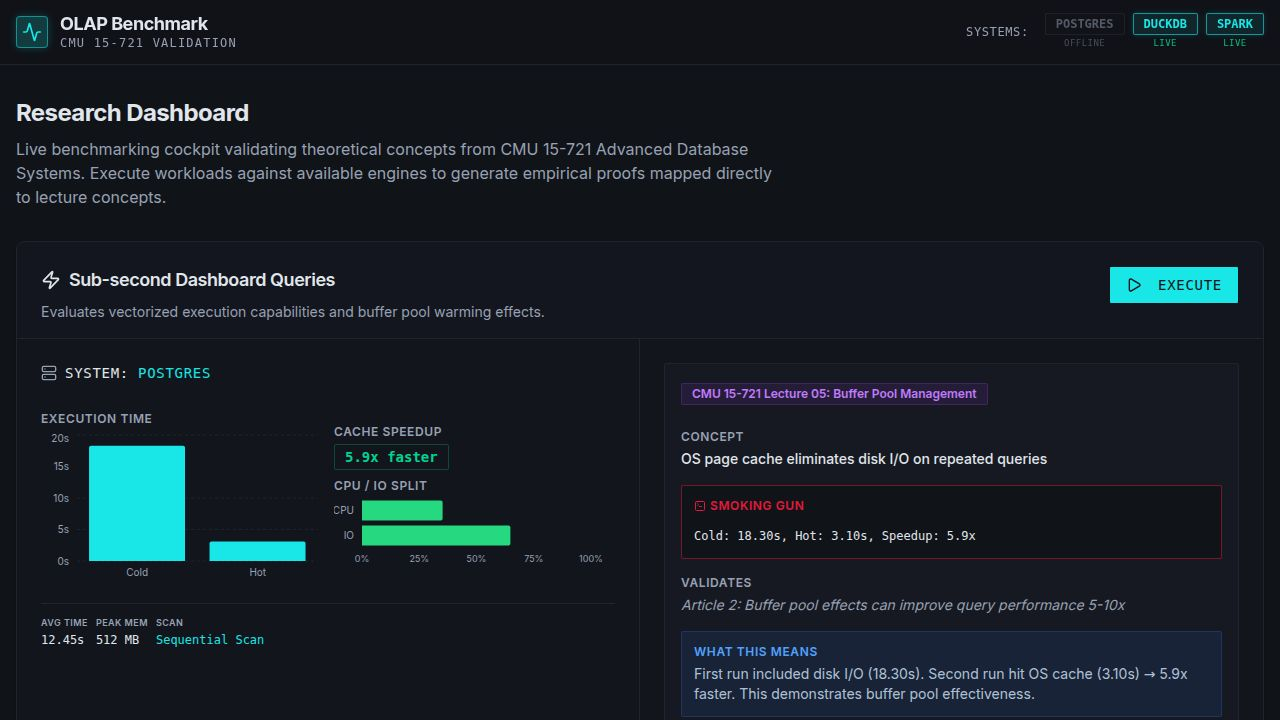
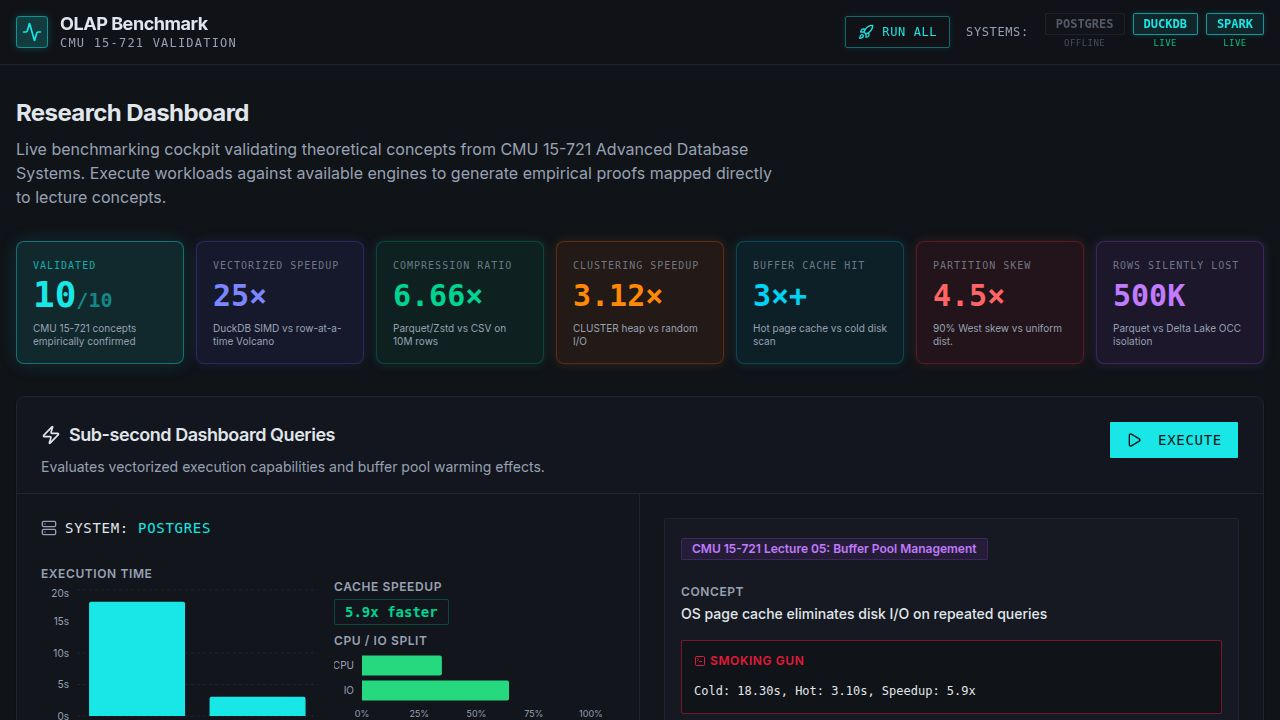
Add performance highlights and a run all button to the dashboard
Adds a "Headline Stats" grid to showcase key performance metrics and a "Run All" button to trigger all benchmarks sequentially with a progress counter.

diff --git a/artifacts/dashboard/src/pages/dashboard.tsx b/artifacts/dashboard/src/pages/dashboard.tsx
@@ -7,7 +7,7 @@ import { Button } from "@/components/ui/button";
 import { ScrollArea } from "@/components/ui/scroll-area";
 import { Table, TableBody, TableCell, TableHead, TableHeader, TableRow } from "@/components/ui/table";
 import { BarChart, Bar, XAxis, YAxis, CartesianGrid, Tooltip, ResponsiveContainer, Cell } from "recharts";
-import { Activity, Play, TerminalSquare, Database, Server, Table as TableIcon, Zap, HardDrive, CheckCircle2, ShieldAlert, Cpu, Archive, TrendingUp, Filter, Scale } from "lucide-react";
+import { Activity, Play, TerminalSquare, Database, Server, Table as TableIcon, Zap, HardDrive, CheckCircle2, ShieldAlert, Cpu, Archive, TrendingUp, Filter, Scale, Sparkles, Rocket } from "lucide-react";
 
 interface ValidationData {
   lecture: string;
@@ -336,6 +336,83 @@ const TRACEABILITY_MATRIX = [
   { benchmark: "Predicate pushdown (0, 1, 2 preds)", lecture: "Lectures 07–08", concept: "Cost-Based Optimization / Predicate Pushdown", proof: "2-predicate query 1.5x faster; HASH_JOIN selected in all scenarios" },
   { benchmark: "90% West skew vs uniform", lecture: "Lecture 09", concept: "Join Skew / Partition Imbalance", proof: "4.5x partition imbalance; heavy agg (COUNT DISTINCT) slowdown visible" },
 ];
+
+const HEADLINE_STATS = [
+  {
+    value: "25×",
+    label: "Vectorized Speedup",
+    sub: "DuckDB SIMD vs row-at-a-time Volcano",
+    color: "text-indigo-400",
+    border: "border-indigo-500/25",
+    glow: "shadow-[0_0_12px_rgba(99,102,241,0.15)]",
+    bg: "bg-indigo-500/8",
+  },
+  {
+    value: "6.66×",
+    label: "Compression Ratio",
+    sub: "Parquet/Zstd vs CSV on 10M rows",
+    color: "text-emerald-400",
+    border: "border-emerald-500/25",
+    glow: "shadow-[0_0_12px_rgba(52,211,153,0.15)]",
+    bg: "bg-emerald-500/8",
+  },
+  {
+    value: "3.12×",
+    label: "Clustering Speedup",
+    sub: "CLUSTER heap vs random I/O",
+    color: "text-orange-400",
+    border: "border-orange-500/25",
+    glow: "shadow-[0_0_12px_rgba(251,146,60,0.15)]",
+    bg: "bg-orange-500/8",
+  },
+  {
+    value: "3×+",
+    label: "Buffer Cache Hit",
+    sub: "Hot page cache vs cold disk scan",
+    color: "text-cyan-400",
+    border: "border-cyan-500/25",
+    glow: "shadow-[0_0_12px_rgba(34,211,238,0.15)]",
+    bg: "bg-cyan-500/8",
+  },
+  {
+    value: "4.5×",
+    label: "Partition Skew",
+    sub: "90% West skew vs uniform dist.",
+    color: "text-red-400",
+    border: "border-red-500/25",
+    glow: "shadow-[0_0_12px_rgba(248,113,113,0.15)]",
+    bg: "bg-red-500/8",
+  },
+  {
+    value: "500K",
+    label: "Rows Silently Lost",
+    sub: "Parquet vs Delta Lake OCC isolation",
+    color: "text-purple-400",
+    border: "border-purple-500/25",
+    glow: "shadow-[0_0_12px_rgba(192,132,252,0.15)]",
+    bg: "bg-purple-500/8",
+  },
+];
+
+function StatsGrid({ validatedCount, total }: { validatedCount: number; total: number }) {
+  return (
+    <section className="grid grid-cols-2 md:grid-cols-4 lg:grid-cols-7 gap-3">
+      {/* Validated count — prominent first card */}
+      <div className="col-span-2 md:col-span-2 lg:col-span-1 rounded-xl border border-primary/40 bg-primary/10 shadow-[0_0_20px_rgba(0,255,255,0.12)] p-4 flex flex-col justify-between">
+        <span className="text-[10px] font-mono uppercase tracking-widest text-primary/70 mb-1">Validated</span>
+        <span className="text-4xl font-bold font-mono text-primary leading-none">{validatedCount}<span className="text-xl text-primary/50">/{total}</span></span>
+        <span className="text-[10px] text-muted-foreground mt-2 leading-tight">CMU 15-721 concepts<br/>empirically confirmed</span>
+      </div>
+      {HEADLINE_STATS.map((s) => (
+        <div key={s.label} className={`rounded-xl border ${s.border} ${s.bg} ${s.glow} p-4 flex flex-col justify-between`}>
+          <span className="text-[10px] font-mono uppercase tracking-widest text-muted-foreground/70 mb-1">{s.label}</span>
+          <span className={`text-3xl font-bold font-mono leading-none ${s.color}`}>{s.value}</span>
+          <span className="text-[10px] text-muted-foreground mt-2 leading-tight">{s.sub}</span>
+        </div>
+      ))}
+    </section>
+  );
+}
 
 function ValidationPanel({ validation }: { validation: ValidationData }) {
   if (!validation) return null;
@@ -1551,11 +1628,12 @@ function UseCaseSection({
 export default function Dashboard() {
   const queryClient = useQueryClient();
   const [activeLogStream, setActiveLogStream] = useState<UseCaseType | null>(null);
+  const [runAllQueue, setRunAllQueue] = useState<UseCaseType[]>([]);
+  const [runAllProgress, setRunAllProgress] = useState(0);
 
   const { data: status } = useGetBenchmarkStatus({
     query: {
       queryKey: getGetBenchmarkStatusQueryKey(),
-      // Poll every 3s while a run is active or an SSE stream is open
       refetchInterval: (query) =>
         (query.state.data?.running || activeLogStream !== null) ? 3000 : false,
     }
@@ -1567,19 +1645,33 @@ export default function Dashboard() {
     runBenchmark.mutate({ useCase }, {
       onSuccess: () => {
         setActiveLogStream(useCase);
-        // Immediately refresh status so running=true and system chips update
         queryClient.invalidateQueries({ queryKey: getGetBenchmarkStatusQueryKey() });
       }
     });
   };
 
+  const handleRunAll = () => {
+    const allIds = USE_CASES.map(uc => uc.id);
+    setRunAllProgress(0);
+    const [first, ...rest] = allIds;
+    setRunAllQueue(rest);
+    handleRun(first);
+  };
+
   const handleLogComplete = () => {
     if (activeLogStream) {
-      // Refresh status first so completedUseCases updates and enables the results query
       queryClient.invalidateQueries({ queryKey: getGetBenchmarkStatusQueryKey() });
-      // Then refetch results for this specific use case
       queryClient.invalidateQueries({ queryKey: getGetBenchmarkResultsQueryKey(activeLogStream) });
       setActiveLogStream(null);
+
+      if (runAllQueue.length > 0) {
+        const [next, ...rest] = runAllQueue;
+        setRunAllProgress(p => p + 1);
+        setRunAllQueue(rest);
+        setTimeout(() => handleRun(next), 600);
+      } else if (runAllProgress > 0) {
+        setRunAllProgress(0);
+      }
     }
   };
 
@@ -1606,6 +1698,27 @@ export default function Dashboard() {
           </div>
           
           <div className="flex items-center gap-4">
+            {/* Run All button */}
+            <Button
+              size="sm"
+              variant="outline"
+              disabled={status?.running || runAllQueue.length > 0}
+              onClick={handleRunAll}
+              className="hidden sm:flex items-center gap-2 border-primary/40 text-primary hover:bg-primary/10 hover:text-primary font-mono text-xs uppercase tracking-wider shadow-[0_0_8px_rgba(0,255,255,0.1)]"
+            >
+              {runAllQueue.length > 0 ? (
+                <>
+                  <Activity className="w-3.5 h-3.5 animate-pulse" />
+                  {USE_CASES.length - runAllQueue.length}/{USE_CASES.length}
+                </>
+              ) : (
+                <>
+                  <Rocket className="w-3.5 h-3.5" />
+                  Run All
+                </>
+              )}
+            </Button>
+
             <div className="flex items-center gap-2">
               <span className="text-xs font-mono text-muted-foreground uppercase tracking-wider mr-2">Systems:</span>
               {(["postgres", "duckdb", "spark"] as const).map(sys => {
@@ -1643,6 +1756,12 @@ export default function Dashboard() {
             Execute workloads against available engines to generate empirical proofs mapped directly to lecture concepts.
           </p>
         </section>
+
+        {/* Headline Stats */}
+        <StatsGrid
+          validatedCount={status?.completedUseCases?.length ?? 0}
+          total={USE_CASES.length}
+        />
 
         {/* Live Logs */}
         {activeLogStream && (